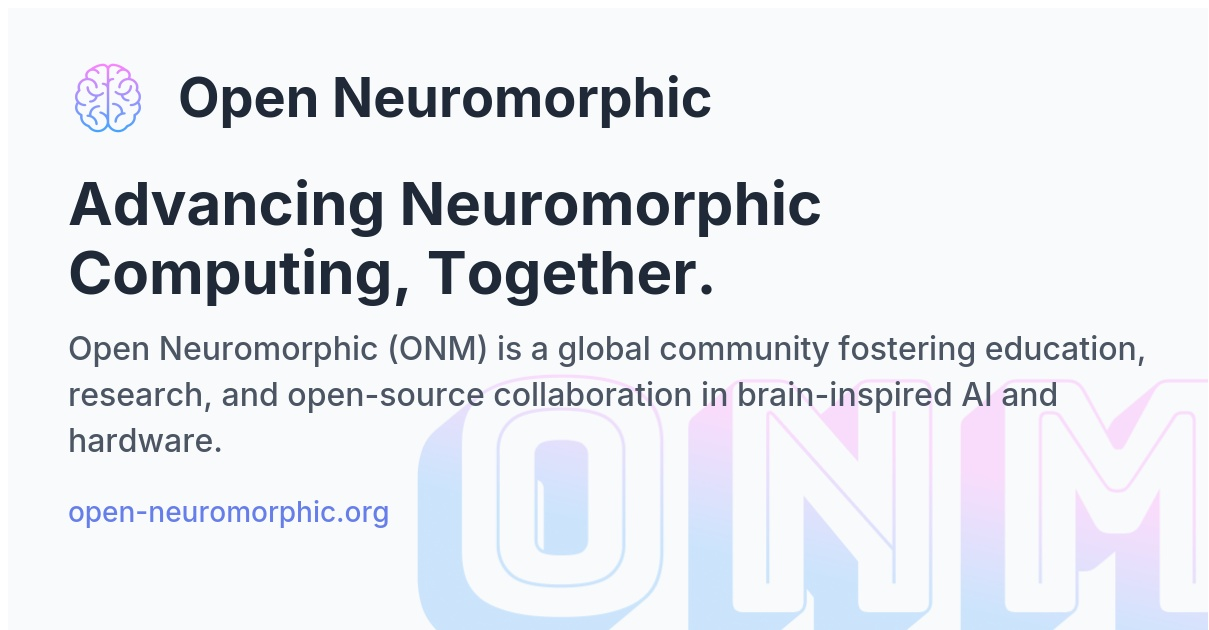
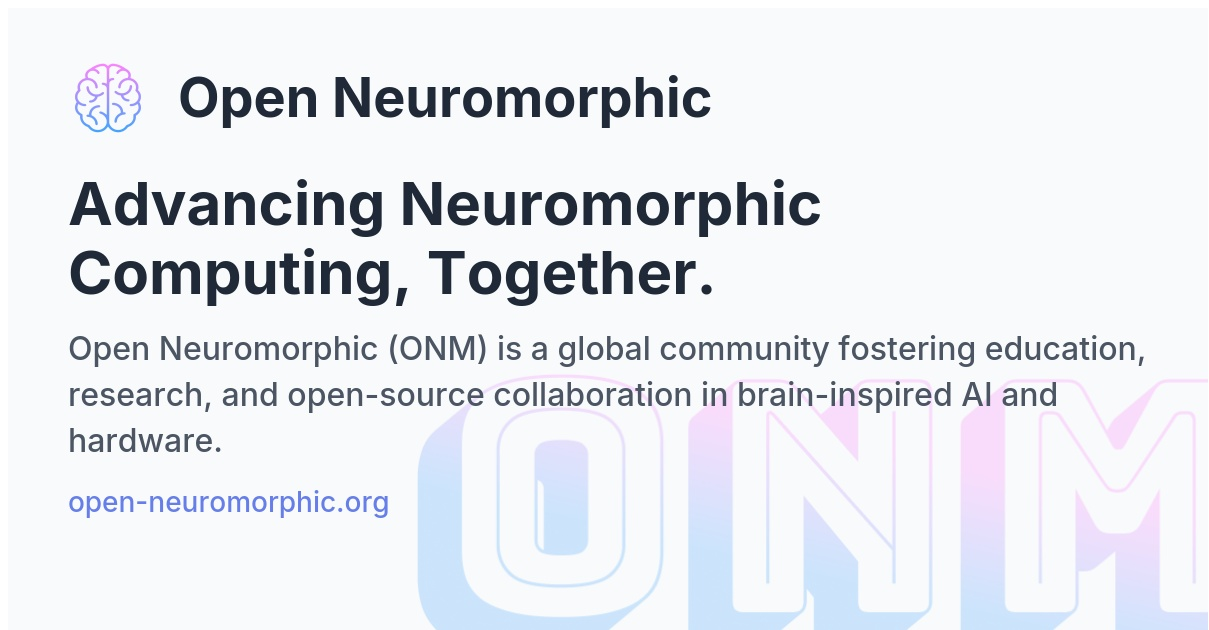
testing wkhtmltopdf

Changed region(s): [[0.0612, 0.7841, 0.3366, 0.8444]]

diff --git a/assets/og-template/template.html b/assets/og-template/template.html
@@ -27,7 +27,6 @@
       /* Set an explicit size */
       width: 900px;
       height: auto;
-      transform: rotate(-15deg);
     }
 
     /* The main content card, also absolutely positioned */
@@ -112,9 +111,7 @@
       font-size: 28px;
       font-weight: 500;
       color: #667eea;
-      margin-top: auto;
       text-align: left;
-      padding-top: 10px;
     }
   </style>
   <link href="https://fonts.googleapis.com/css2?family=Inter:wght@400;500;600;700&display=swap" rel="stylesheet">
